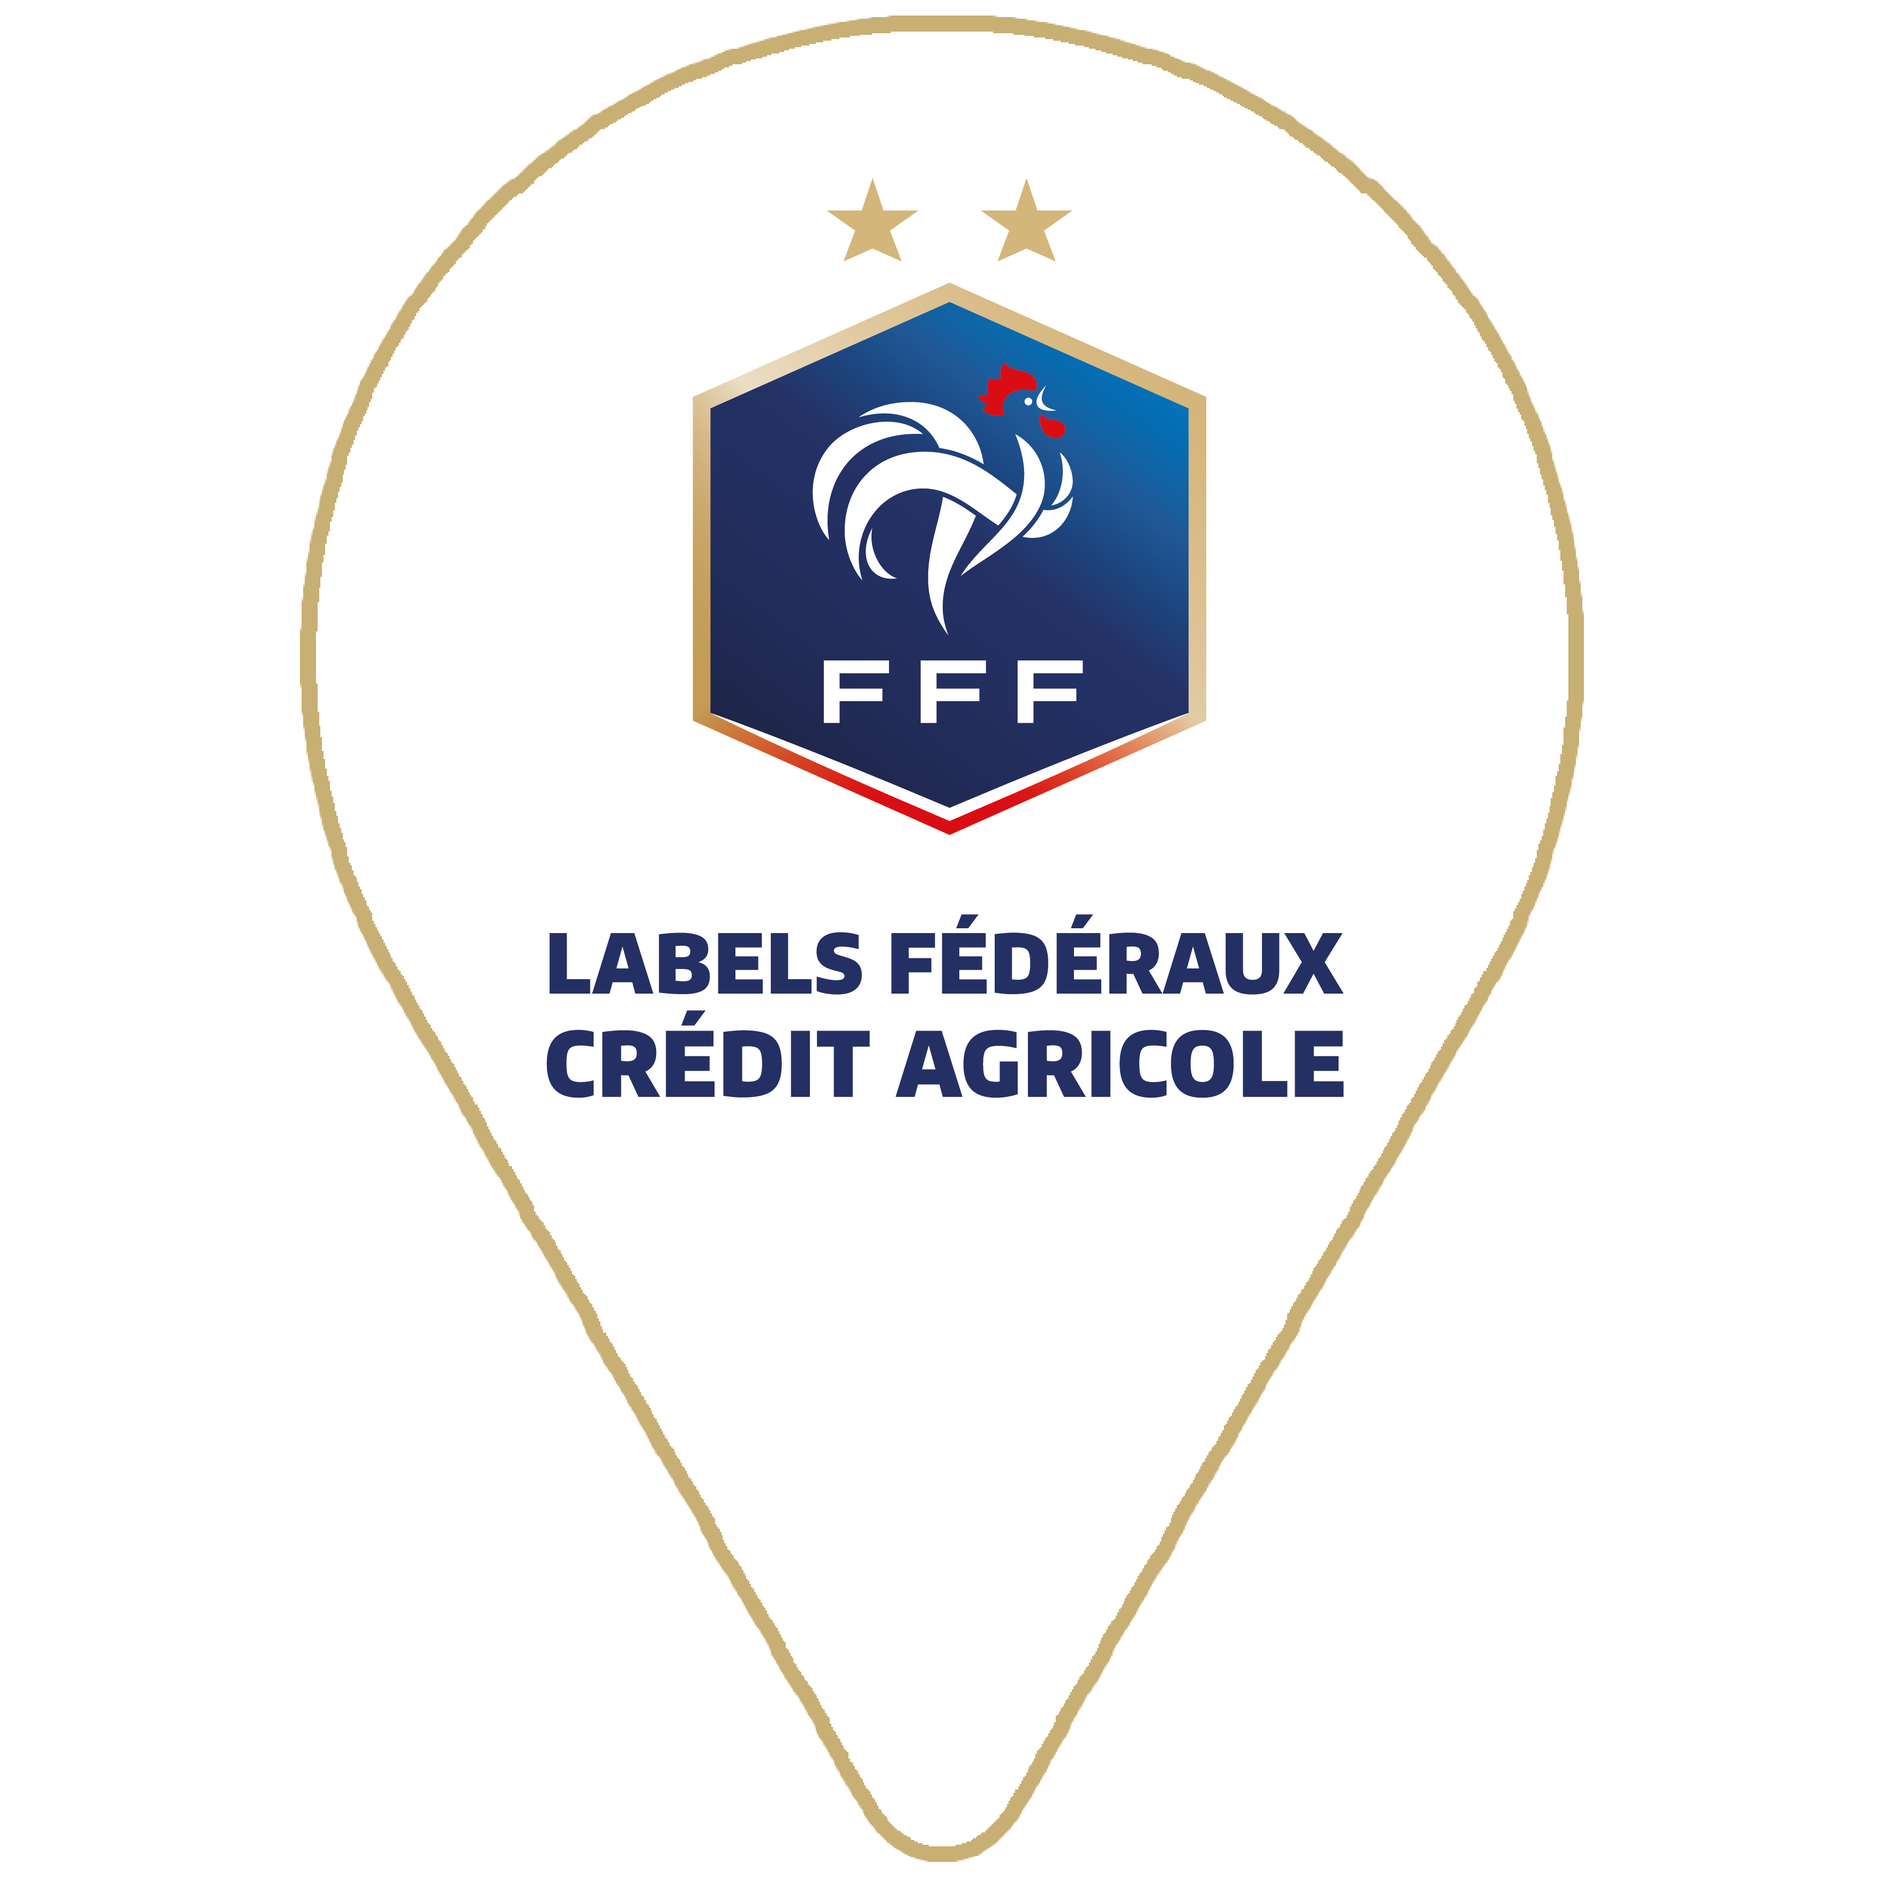
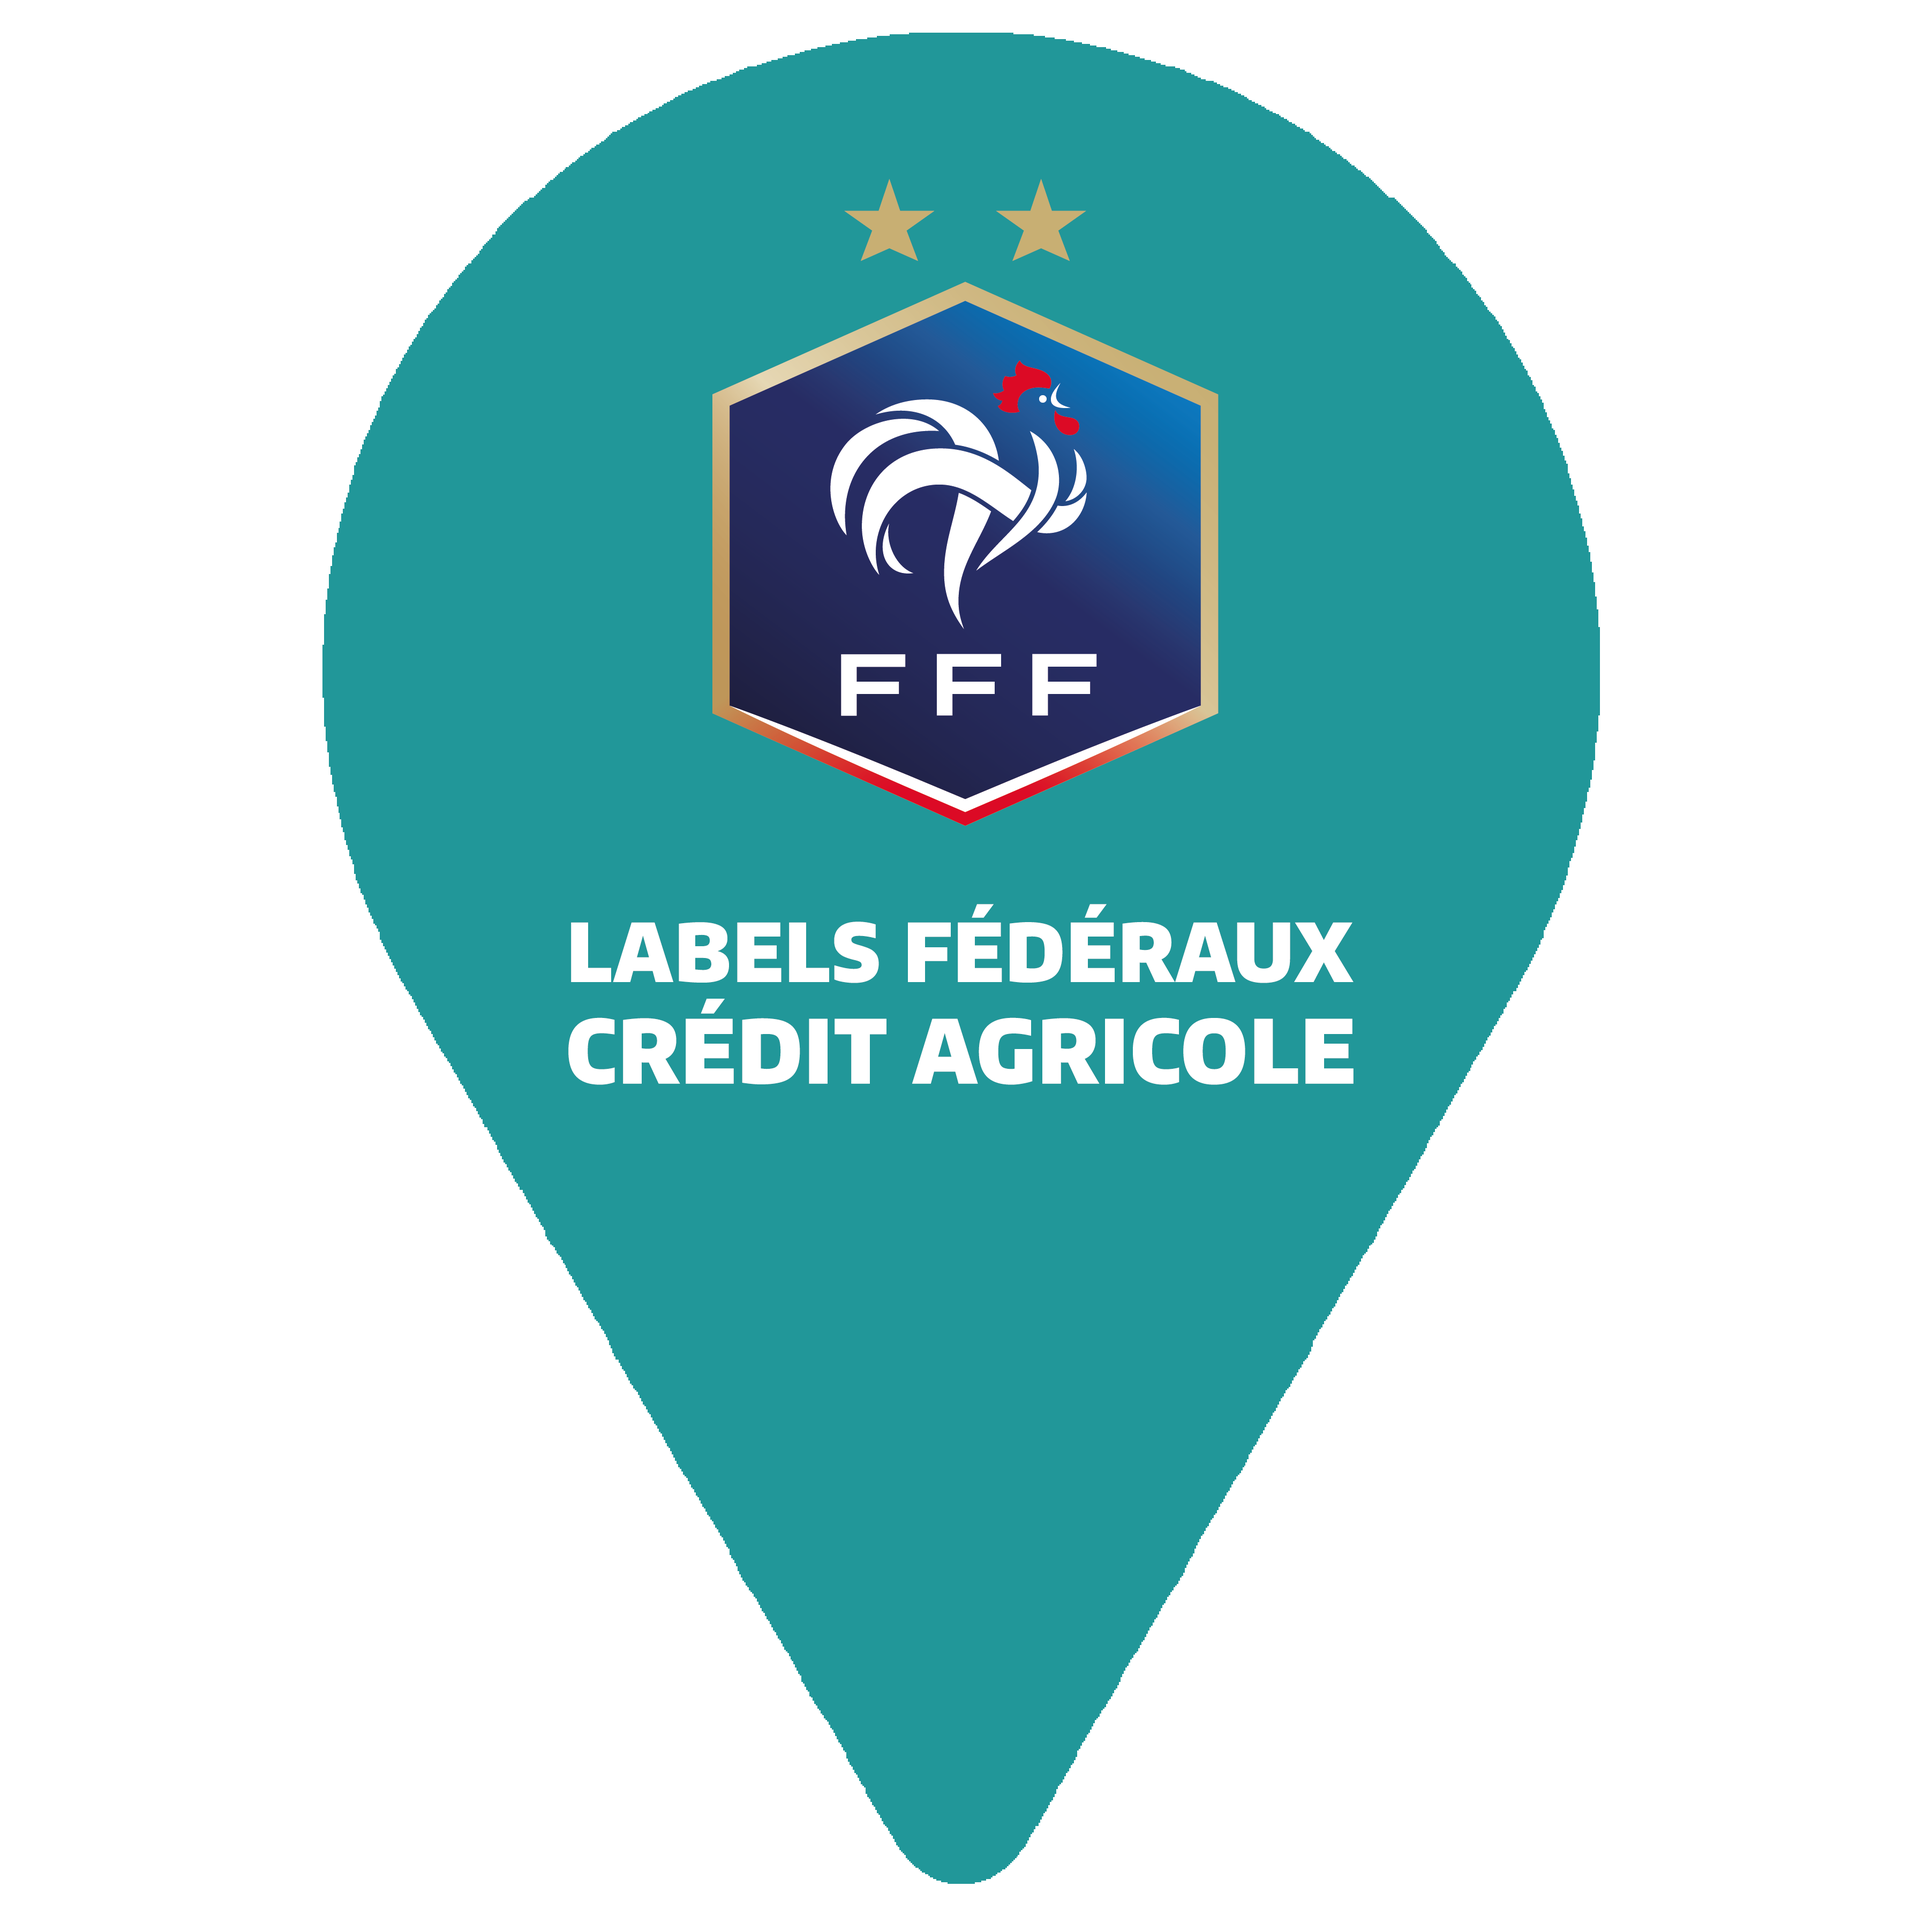
markersCA

diff --git a/src/components/Map/Testing.jsx b/src/components/Map/Testing.jsx
@@ -29,7 +29,7 @@ import Button2 from "@mui/material/Button";
 import Typography from "@mui/material/Typography";
 import Modal from "@mui/material/Modal";
 import data from "./data/data.json";
-import LabelMarker from "../../assets/Marqueurs/label.png";
+import LabelMarker from "../../assets/CA/labelCA.png";
 import marqueurG from '../../assets/Marqueurs/MarqueurG.png'
 import marqueurF from '../../assets/Marqueurs/MarqueurF.png'
 import Button from 'react-bootstrap/Button'
@@ -147,7 +147,7 @@ function Mobile3() {
   });
 
   const clubMarqueurLabel = L.icon({
-    iconSize: [40, 50],
+    iconSize: [57, 58],
     iconAnchor: [13.5, 47],
     iconUrl: LabelMarker,
   });

diff --git a/src/components/Map/Map.css b/src/components/Map/Map.css
@@ -692,8 +692,8 @@ body {
 }
 
 .labelClubDesktop {
-  height: 41px;
-  width: 31px;
+  height: 40px;
+  width: 44px;
   margin-left: 68px;
   background: transparent;
   background-color: transparent;
